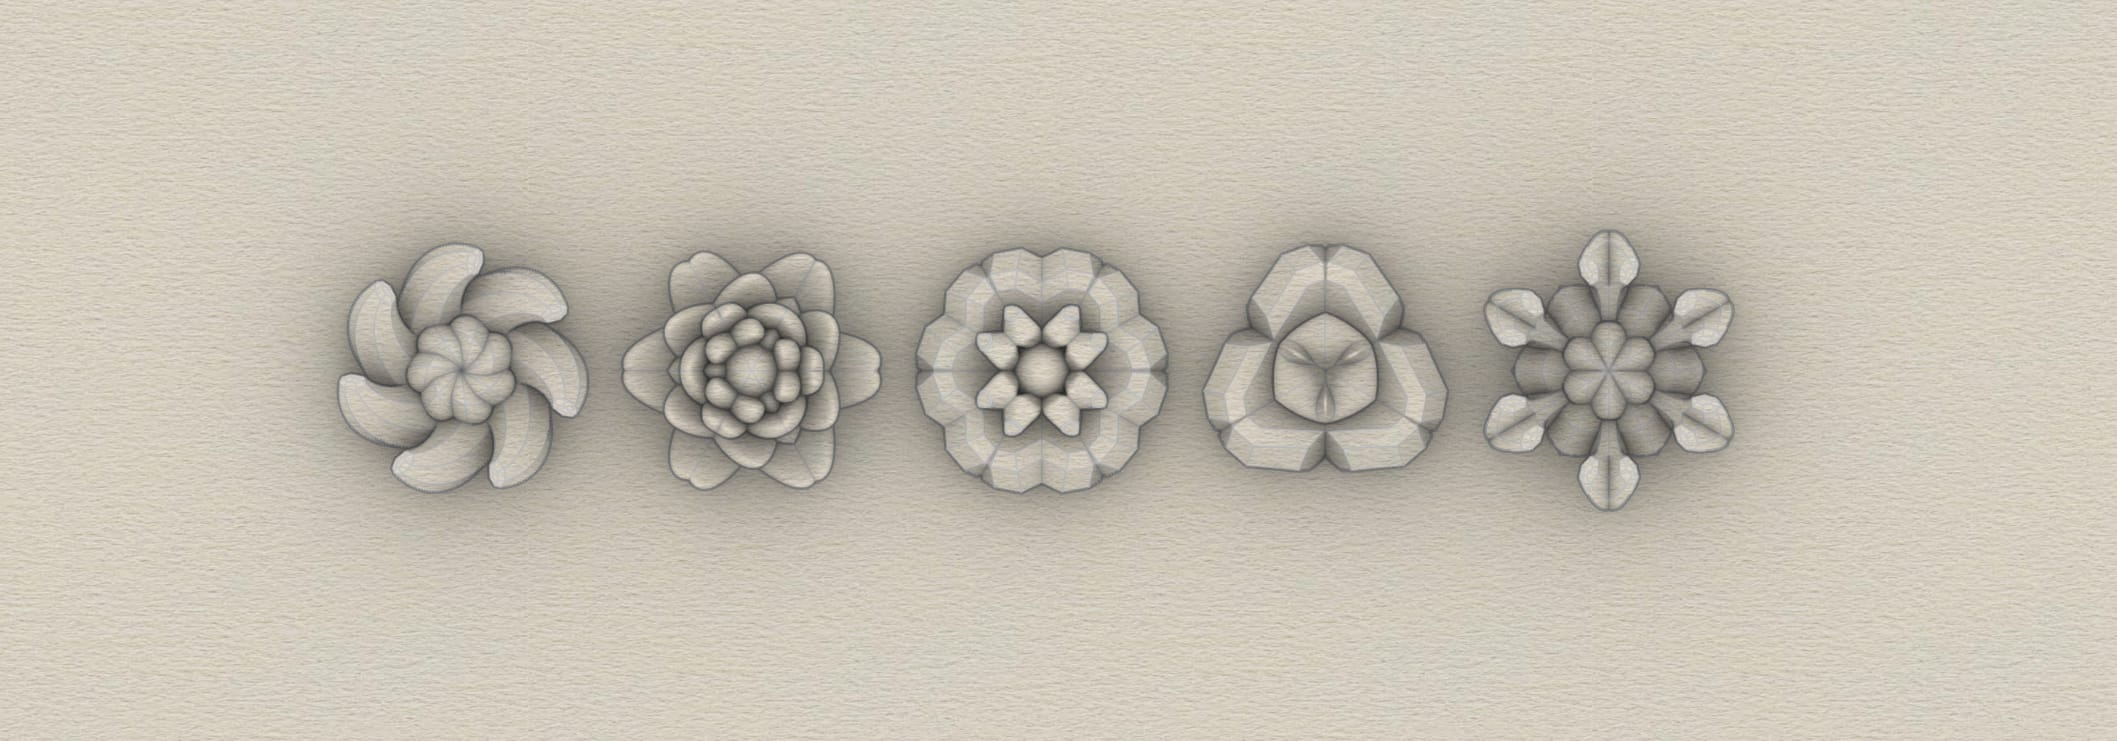
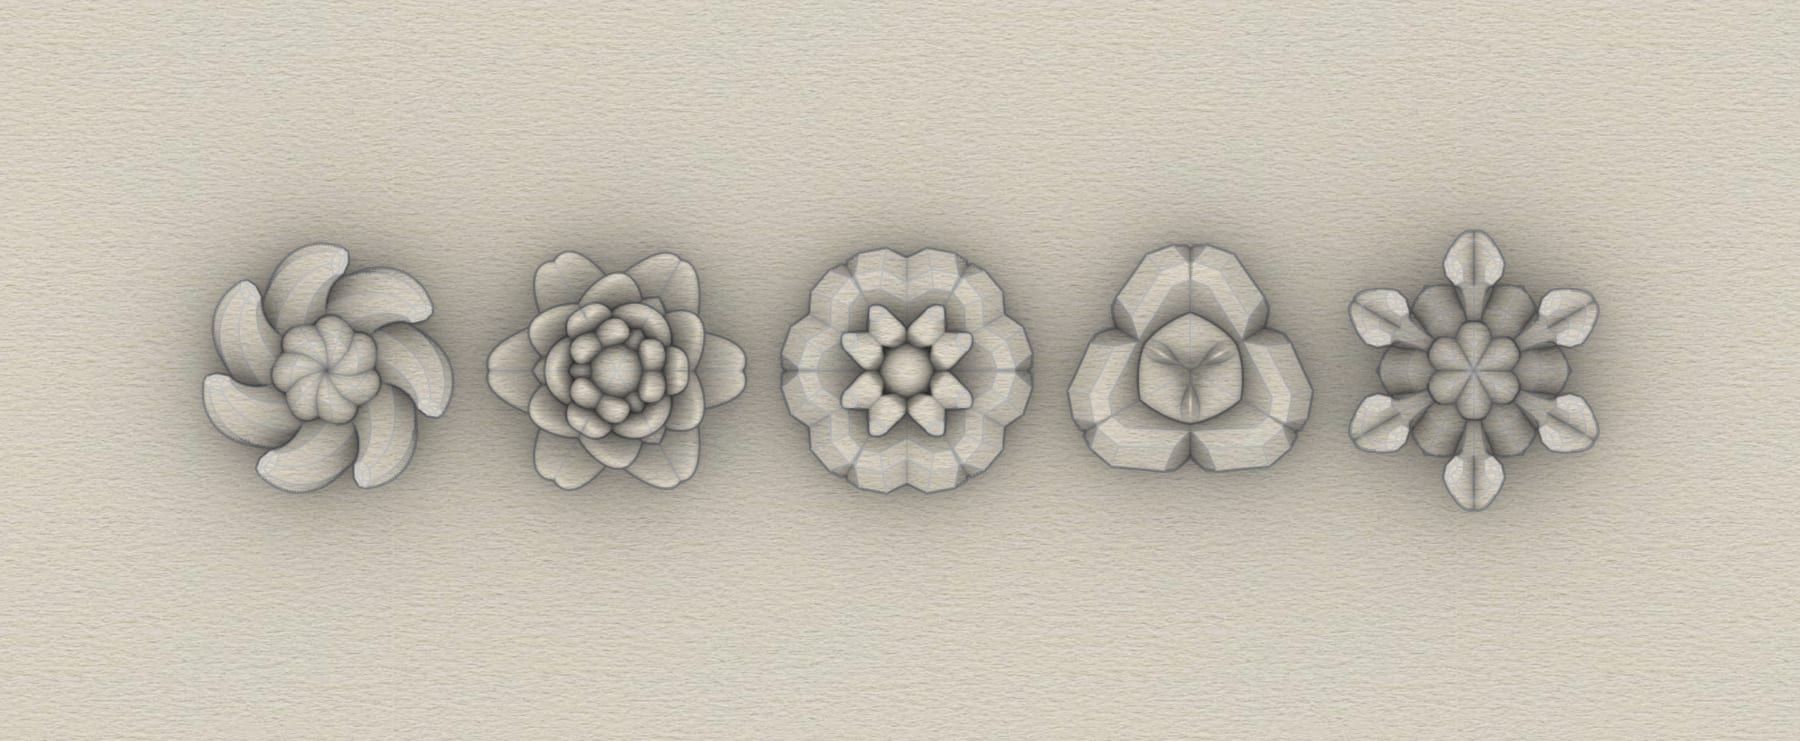
Fridge Magnets: top render sized to the text column so the outer magnets line up with the text edges, on a matching paper texture (new coverAlign: content option)
Claude-Session: https://claude.ai/code/session_01AbSXnSw8JDBqyXY7BRb2tF

Changed region(s): [[0.0933, 0.2794, 0.9333, 0.7139]]

diff --git a/src/content.config.ts b/src/content.config.ts
@@ -33,6 +33,12 @@ const made = defineCollection({
       coverPlain: z.boolean().default(false),
       // true: the top photo is light (e.g. a pale render), so the title and site header switch to dark text
       coverLight: z.boolean().default(false),
+      // 'content': the top image is sized to the text column instead of filling the window, on a
+      // paper texture that runs edge to edge. Crop the image so the object spans its middle, with
+      // coverPad (a share of the object's width) of paper on each side; the object then lines up
+      // with the left and right edges of the text below at every screen size.
+      coverAlign: z.enum(['full', 'content']).default('full'),
+      coverPad: z.number().min(0).default(0),
       thumbnail: photo.optional(), // gallery tile (4:5); falls back to cover
       photos: z.array(photo).default([]),
       // mixed: tall photos as 4:5 tiles, wide photos span the row

diff --git a/src/styles/tokens.css b/src/styles/tokens.css
@@ -137,6 +137,8 @@
   --photo-scrim-top: rgb(0 0 0 / 0.75);
   /* Light top photos (coverLight): dark text, no shadow. On the pale render: ink about 14:1, rule 5.5:1 */
   --color-on-light-photo: var(--gray-950);
+  --color-paper: #d5cdbf; /* average tone of the paper texture behind pale renders */
+  --mask-opaque: #000; /* fully shown area in CSS fade masks (not a visible color) */
   --color-on-light-photo-rule: var(--gray-600);
   /* Drop shadow on text over photos: a tight dark edge for crispness plus a soft glow for depth */
   --photo-text-shadow:

diff --git a/src/content/made/refrigerator-magnet-series/index.md b/src/content/made/refrigerator-magnet-series/index.md
@@ -10,6 +10,10 @@ cover:
 # The render is pale, so the title and header use dark text, with no color wash
 coverPlain: true
 coverLight: true
+# Magnets line up with the left and right edges of the text: the render is cropped with 200px of
+# paper on each side of the 1400px row of magnets
+coverAlign: content
+coverPad: 0.142857
 thumbnail:
   src: ./snowflake-thumbnail.jpg
   alt: A white snowflake magnet with six rounded arms on a stainless steel fridge.
